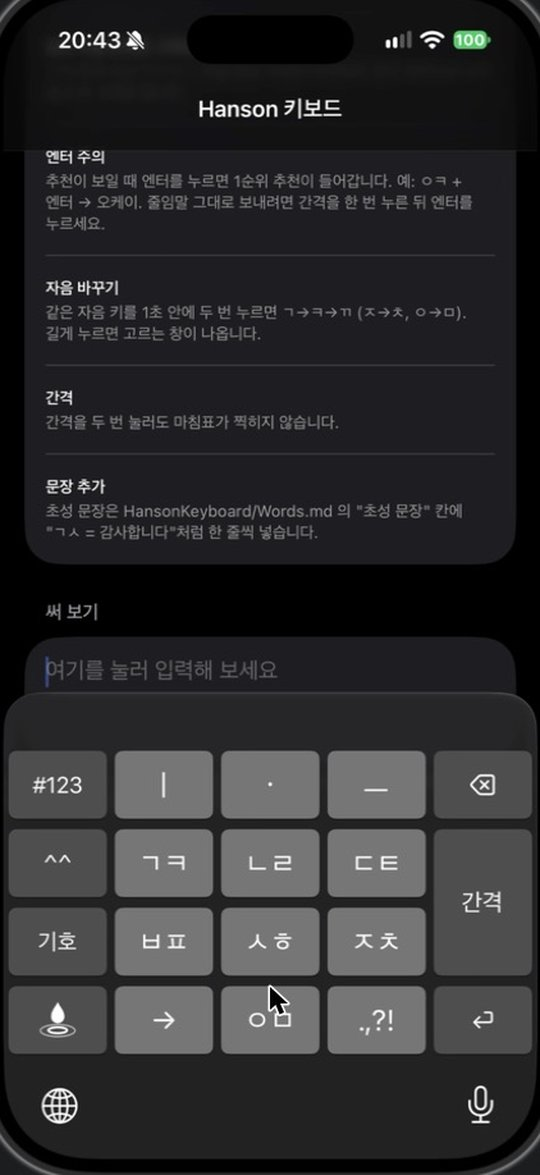
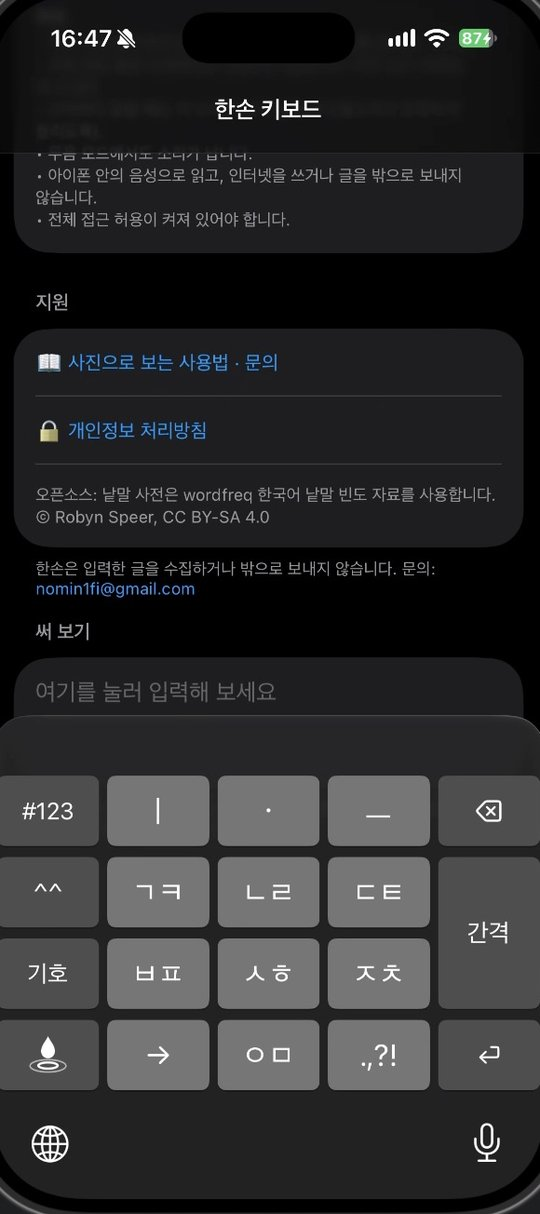
한손: 키보드 켜는 법 사진 6장, 초성·키 소리 새 사진
Claude-Session: https://claude.ai/code/session_01HXSv6faWPWTtUoDUjTCWuq

diff --git a/hanson/index.html b/hanson/index.html
@@ -44,12 +44,14 @@ figcaption b{display:block;margin-bottom:2px}
 
 <h2 id="start">1. 처음 설치하면: 키보드 켜기</h2>
 <p>앱을 설치한 뒤 아이폰 설정에서 키보드를 한 번 추가해야 합니다.</p>
-<ol>
-<li><b>설정</b> 앱 → <b>일반</b> → <b>키보드</b> → <b>키보드</b></li>
-<li><b>새로운 키보드 추가</b> → <b>한손</b>을 누릅니다.</li>
-<li>(선택) 목록에서 <b>한손</b> → <b>전체 접근 허용</b>을 켭니다. 키 소리·진동·읽어주기에 필요합니다. 켜지 않아도 글자 입력은 됩니다.</li>
-<li>메모 앱 등 글을 쓰는 곳에서 화면 아래 🌐(지구본)을 눌러 한손으로 바꿉니다.</li>
-</ol>
+<div class="steps">
+<figure><img src="img/setup-01.jpg" alt="아이폰 설정 첫 화면" loading="lazy" width="540" height="1214"><figcaption><b>① 설정 → 일반</b>설정 앱을 열고 "일반"을 누릅니다.</figcaption></figure>
+<figure><img src="img/setup-02.jpg" alt="일반 화면" loading="lazy" width="540" height="1214"><figcaption><b>② 키보드</b>아래로 내려 "키보드"를 누릅니다.</figcaption></figure>
+<figure><img src="img/setup-03.jpg" alt="키보드 설정 화면" loading="lazy" width="540" height="1214"><figcaption><b>③ 맨 위 "키보드"</b>※ 이 화면의 "한 손 키보드"는 아이폰 기본 기능입니다. 한손 앱과 다릅니다.</figcaption></figure>
+<figure><img src="img/setup-04.jpg" alt="키보드 목록" loading="lazy" width="540" height="1214"><figcaption><b>④ 새로운 키보드 추가 → 한손</b>추가하면 목록에 "한손 · 한국어"가 보입니다. 이어서 "한손"을 누릅니다.</figcaption></figure>
+<figure><img src="img/setup-05.jpg" alt="전체 접근 허용" loading="lazy" width="540" height="1214"><figcaption><b>⑤ 전체 접근 허용 (선택)</b>키 소리·진동·읽어주기에 필요합니다. 꺼도 글자 입력은 됩니다.</figcaption></figure>
+<figure><img src="img/keyboard-01.jpg" alt="한손 키보드 화면" loading="lazy" width="540" height="1214"><figcaption><b>⑥ 🌐로 한손 고르기</b>글 쓰는 칸을 누르고 화면 아래 🌐을 눌러 한손으로 바꿉니다.</figcaption></figure>
+</div>
 <div class="box">팁: 키보드 목록을 <b>한손 + 영어</b> 두 개만 두면 🌐 한 번으로 한글·영어가 바뀝니다. 다른 키보드는 🌐을 길게 눌러 고를 수 있습니다.</div>
 
 <h2 id="typing">2. 자판 쓰는 법</h2>
@@ -68,8 +70,8 @@ figcaption b{display:block;margin-bottom:2px}
 <li><b>왼쪽 열</b>: #123(숫자) / ^^(표정) / 기호 / 물방울(키 소리·읽어주기)</li>
 </ul>
 <div class="steps">
-<figure><img src="img/keyboard-01.jpg" alt="한손 키보드 자판 화면" loading="lazy" width="540" height="1175">
-<figcaption><b>한손 자판</b>왼쪽 맨 아래가 물방울 키입니다.</figcaption></figure>
+<figure><img src="img/keyboard-03.jpg" alt="초성 입력 추천" loading="lazy" width="540" height="1214">
+<figcaption><b>초성 입력</b>ㄱㅅ만 쳐도 위 추천 줄에 "감사합니다" 같은 문장이 나옵니다. 파란 글씨가 1순위(엔터)입니다.</figcaption></figure>
 </div>
 
 <h2 id="sound">3. 키 소리 고르기</h2>
@@ -78,7 +80,11 @@ figcaption b{display:block;margin-bottom:2px}
 <li>소리를 누르면 바로 들려주고 그 소리로 바뀝니다. 파란 테두리가 지금 쓰는 소리입니다.</li>
 <li><b>한글</b>을 누르면 자판으로 돌아갑니다.</li>
 </ol>
-<p class="meta">키 소리는 "전체 접근 허용"이 켜져 있어야 납니다.</p>
+<p class="meta">키 소리는 "전체 접근 허용"이 켜져 있어야 납니다. "아이폰" 소리는 무음 모드에서 나지 않습니다.</p>
+<div class="steps">
+<figure><img src="img/keyboard-02.jpg" alt="키 소리 고르기 화면" loading="lazy" width="540" height="1214">
+<figcaption><b>키 소리 18가지 + 끄기</b>맨 위 "🗣 읽어주기"를 누르면 읽어주기 설정으로 갑니다.</figcaption></figure>
+</div>
 
 <h2 id="read">4. 읽어주기</h2>
 <p>쓴 글을 아이폰 음성으로 읽어 줍니다. 인터넷을 쓰지 않습니다.</p>
